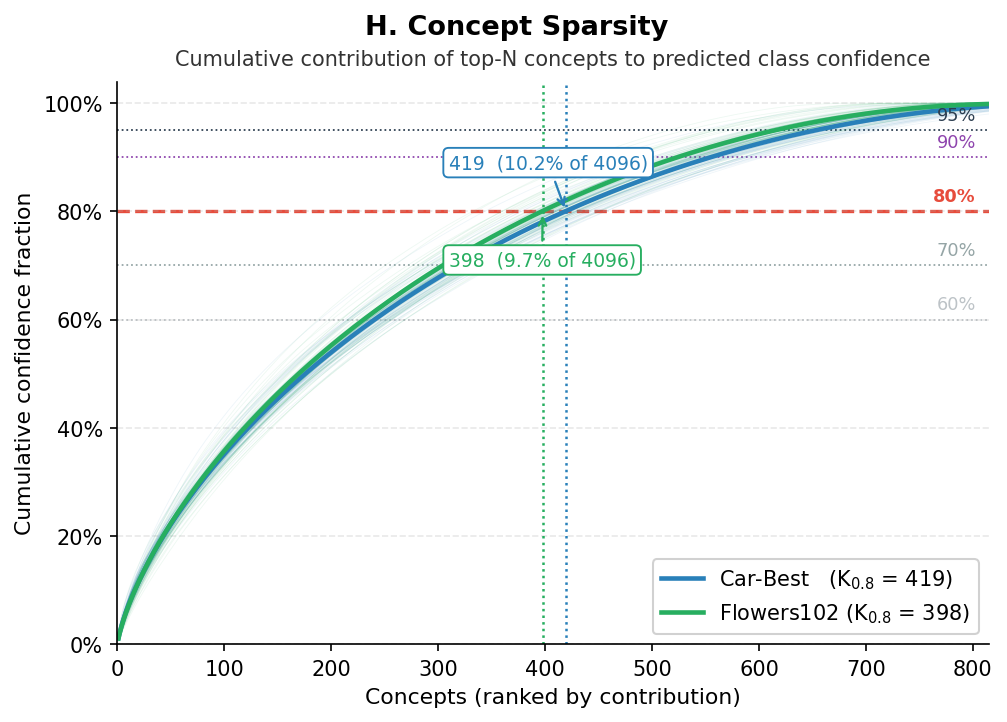
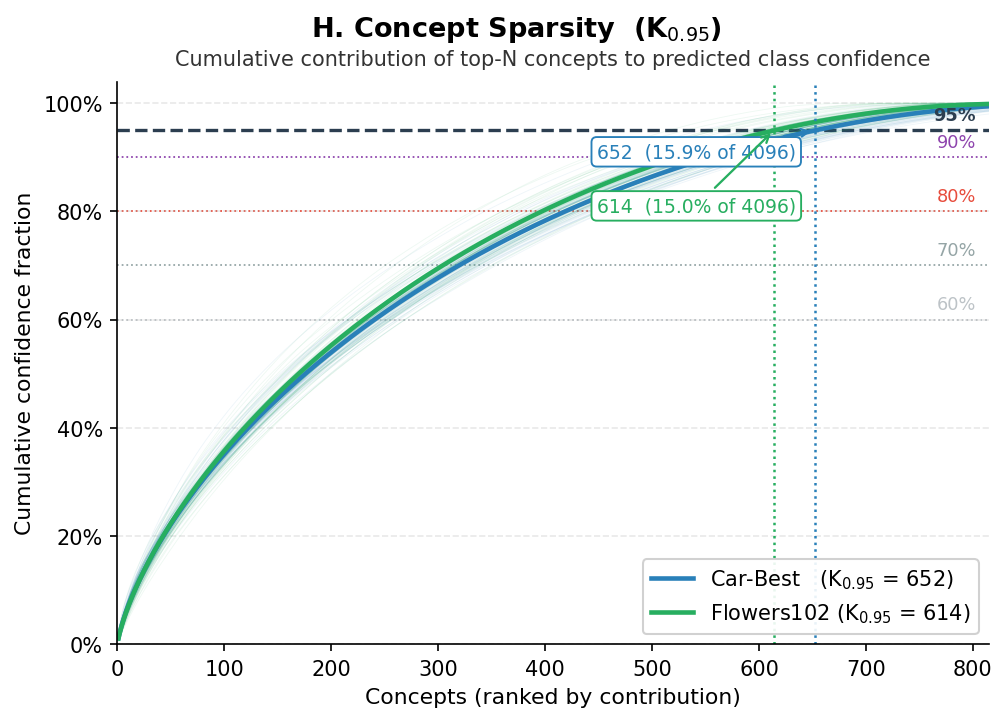
refactor: switch sparsity metric from K_0.8 to K_0.95
K_0.95 better reflects the natural elbow of the cumulative contribution
curve. 95% of confidence is covered by ~15% of the concept space
(Car: 652/4096, Flowers: 614/4096).

- src/evaluate.py: default coverage 0.8 -> 0.95
- train.py: summary key K_0.8 -> K_0.95
- models/*/final_stats.json: updated values
- README.md: updated K_0.95 section with new numbers
- fig_H_sparsity.png: 95% as main threshold

diff --git a/paper_scripts/gen_fig_H_sparsity.py b/paper_scripts/gen_fig_H_sparsity.py
@@ -193,8 +193,8 @@ if __name__ == '__main__':
         per = (curves < thresh).sum(axis=1) + 1
         return float(per.mean())
 
-    car_k08 = k_at(car_curves, 0.8)
-    fl_k08  = k_at(fl_curves,  0.8)
+    car_k08 = k_at(car_curves, 0.95)
+    fl_k08  = k_at(fl_curves,  0.95)
 
     car_ks  = [k_at(car_curves, t) for t in THRESHOLDS]
     fl_ks   = [k_at(fl_curves,  t) for t in THRESHOLDS]
@@ -231,33 +231,33 @@ if __name__ == '__main__':
 
     # Mean on top
     ax.plot(x_rank, car_mean, color=CAR_COLOR, linewidth=2.2,
-            label=f'Car-Best   (K$_{{0.8}}$ = {car_k08:.0f})')
+            label=f'Car-Best   (K$_{{0.95}}$ = {car_k08:.0f})')
     ax.plot(x_rank, fl_mean,  color=FLW_COLOR, linewidth=2.2,
-            label=f'Flowers102 (K$_{{0.8}}$ = {fl_k08:.0f})')
+            label=f'Flowers102 (K$_{{0.95}}$ = {fl_k08:.0f})')
 
     # Threshold lines — labels placed just inside the right edge
     for thresh, tc in zip(THRESHOLDS, THRESH_COLORS):
-        lw = 1.6 if thresh == 0.8 else 0.85
-        ls = '--' if thresh == 0.8 else ':'
+        lw = 1.6 if thresh == 0.95 else 0.85
+        ls = '--' if thresh == 0.95 else ':'
         ax.axhline(thresh, color=tc, linewidth=lw, linestyle=ls, zorder=1)
         ax.text(x_end * 0.985, thresh + 0.012,
                 f'{int(thresh*100)}%', ha='right', va='bottom',
                 fontsize=8.5, color=tc,
-                fontweight='bold' if thresh == 0.8 else 'normal')
+                fontweight='bold' if thresh == 0.95 else 'normal')
 
-    # K_0.8 vertical markers
+    # K_0.95 vertical markers
     ax.axvline(car_k08, color=CAR_COLOR, linewidth=1.2, linestyle=':')
     ax.axvline(fl_k08,  color=FLW_COLOR, linewidth=1.2, linestyle=':')
 
-    # Annotations — car above, flowers below the 80% line
-    ann_x = x_end * 0.38
+    # Annotations — car above, flowers below the 95% line
+    ann_x = x_end * 0.55
     ax.annotate(f'{car_k08:.0f}  ({car_k08/K_TOTAL*100:.1f}% of {K_TOTAL})',
-                xy=(car_k08, 0.8), xytext=(ann_x, 0.88),
+                xy=(car_k08, 0.95), xytext=(ann_x, 0.90),
                 fontsize=9, color=CAR_COLOR,
                 arrowprops=dict(arrowstyle='->', color=CAR_COLOR, lw=1.1),
                 bbox=dict(boxstyle='round,pad=0.28', fc='white', ec=CAR_COLOR, lw=0.9))
     ax.annotate(f'{fl_k08:.0f}  ({fl_k08/K_TOTAL*100:.1f}% of {K_TOTAL})',
-                xy=(fl_k08, 0.8), xytext=(ann_x, 0.70),
+                xy=(fl_k08, 0.95), xytext=(ann_x, 0.80),
                 fontsize=9, color=FLW_COLOR,
                 arrowprops=dict(arrowstyle='->', color=FLW_COLOR, lw=1.1),
                 bbox=dict(boxstyle='round,pad=0.28', fc='white', ec=FLW_COLOR, lw=0.9))
@@ -274,7 +274,7 @@ if __name__ == '__main__':
     ax.set_title('Cumulative contribution of top-N concepts to predicted class confidence',
                  fontsize=10, pad=8, color='#333')
 
-    fig.suptitle('H. Concept Sparsity', fontsize=13, fontweight='bold', y=0.97)
+    fig.suptitle('H. Concept Sparsity  (K$_{0.95}$)', fontsize=13, fontweight='bold', y=0.97)
 
     out_path = OUT_DIR / 'fig_H_sparsity.png'
     plt.savefig(out_path, dpi=150, bbox_inches='tight')

diff --git a/src/evaluate.py b/src/evaluate.py
@@ -1,7 +1,7 @@
 """
 evaluate.py
 -----------
-Evaluation metrics: accuracy, K_0.8 (concept sparsity), and concept intervention.
+Evaluation metrics: accuracy, K_0.95 (concept sparsity), and concept intervention.
 """
 import numpy as np
 import torch
@@ -27,13 +27,12 @@ def eval_acc(backbone, hook, feat_norm, sae, head, loader, cfg, device) -> float
 
 @torch.no_grad()
 def compute_K08(backbone, hook, feat_norm, sae, head, loader, cfg,
-                device, coverage: float = 0.8) -> float:
+                device, coverage: float = 0.95) -> float:
     """
-    Compute K_0.8: mean number of concepts needed to cover `coverage`
+    Compute K_0.95: mean number of concepts needed to cover `coverage`
     fraction of the total prediction mass for the true class.
 
-    Lower K_0.8 → sparser, more interpretable concept usage.
-    Target range: 50–400 (see paper).
+    Lower K_0.95 → sparser, more interpretable concept usage.
     """
     sae.eval(); feat_norm.eval(); head.eval()
     ks = []

diff --git a/train.py b/train.py
@@ -907,11 +907,11 @@ def main():
                                      te_loader, cfg, cfg.intervention_ms, device)
 
     print(f"test_acc : {test_acc:.4f}")
-    print(f"K_0.8    : {K08:.1f}  ({'GOOD' if 50<=K08<=400 else 'check'})")
+    print(f"K_0.95   : {K08:.1f}")
     for m in cfg.intervention_ms:
         print(f"Interv@{m:2d}: drop={interv[m]['drop']:.4f}")
 
-    summary = {'acc': test_acc, 'K_0.8': K08,
+    summary = {'acc': test_acc, 'K_0.95': K08,
                'intervention': {str(m): interv[m] for m in cfg.intervention_ms},
                'n_segments': cfg.n_segments, 'fg_ratio': cfg.fg_ratio,
                'stage2_start': cfg.stage2_start}

diff --git a/README.md b/README.md
@@ -244,13 +244,18 @@ Flowers102:
 - Class  3:  86.5% -> 13.8%  (drop: 72.7%)
 - Class 34:  81.7% ->  7.4%  (drop: 74.4%)
 
-### K_0.8
+### K_0.95
 
-K_0.8 is the number of concepts needed to cover 80% of the prediction confidence mass.
-A lower K_0.8 means the prediction is concentrated in fewer concepts.
+K_0.95 is the number of concepts needed to cover 95% of the prediction confidence mass
+(computed per correctly-predicted test sample, then averaged).
+A lower K_0.95 means the prediction is concentrated in fewer concepts.
 
-- Car-Best:   K_0.8 = 803
-- Flowers102: K_0.8 = 802
+- Car-Best:   K_0.95 = 653  (15.9% of 4096)
+- Flowers102: K_0.95 = 614  (15.0% of 4096)
+
+95% of prediction confidence is explained by roughly 15% of the concept space,
+demonstrating that the model's decisions are driven by a sparse, interpretable subset
+of the learned concept dictionary.
 
 ---
 
